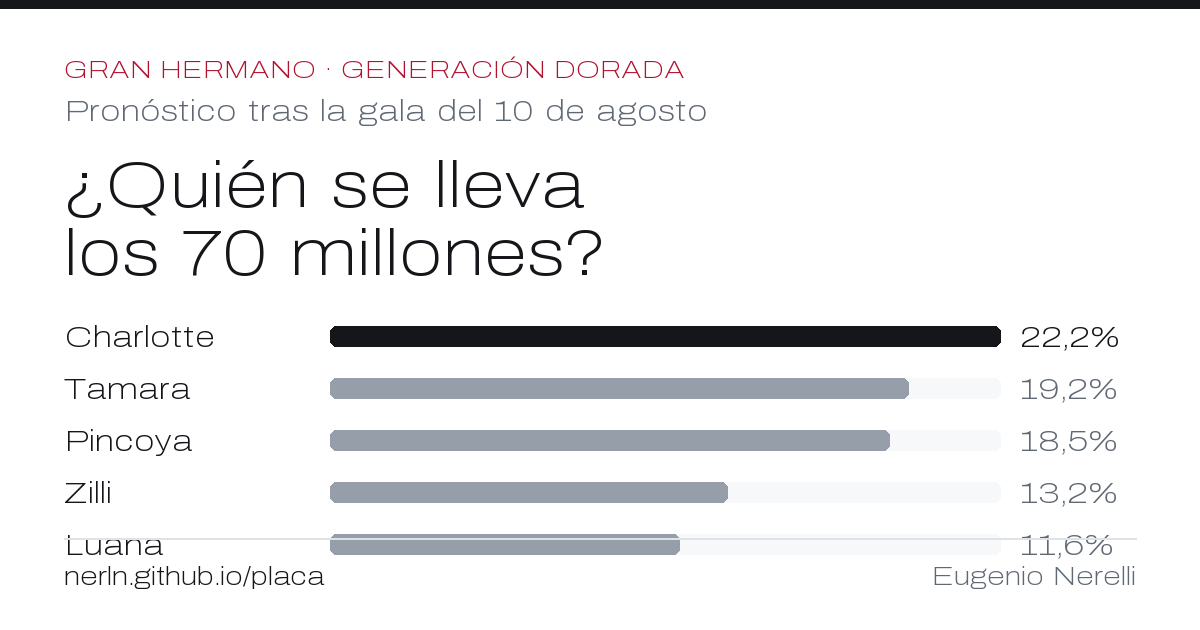
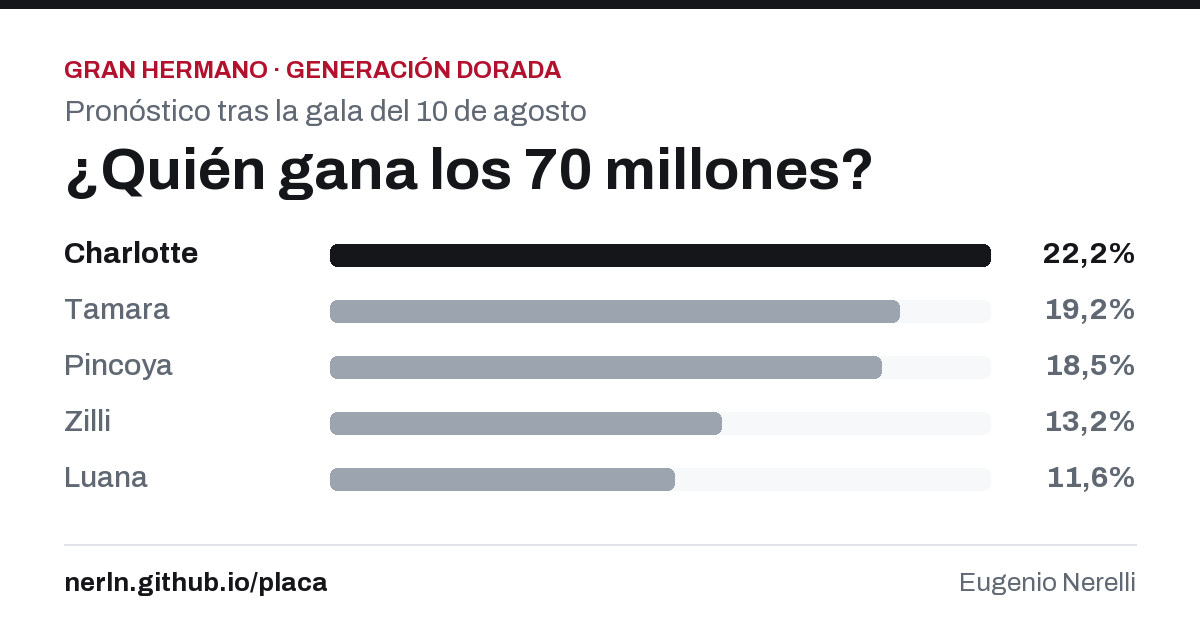
la tarjeta salía en Thin, y ahora no se puede publicar una vieja
Dos cosas de la previsualización del enlace.

Los ejes de Archivo van (peso, ancho) y yo los pasaba al revés, así que fijaba
peso=100 —Thin— y ancho=700, que se sale del eje y se recorta al máximo. Nada
falla al hacerlo: la tarjeta simplemente salía fina y ancha. Además la quinta
fila se metía debajo de la línea del pie; el título pasa a una sola línea y las
filas respiran.

Y el fallo silencioso que tenía esto: build.py no toca og.png, así que se podía
reconstruir la página y olvidarse de la tarjeta, y el enlace compartido seguiría
cantando el pronóstico de la semana pasada sin que nada se rompiera. tarjeta.py
ahora deja la firma de la corrida en un trozo de texto dentro del PNG y
verificar.py la compara con resultados.json. Se compara la firma y no los
píxeles, que dependen de la versión de la librería.

diff --git a/gui/tarjeta.py b/gui/tarjeta.py
@@ -16,7 +16,7 @@ from __future__ import annotations
 import json
 from pathlib import Path
 
-from PIL import Image, ImageDraw, ImageFont
+from PIL import Image, ImageDraw, ImageFont, PngImagePlugin
 
 ROOT = Path(__file__).resolve().parent.parent
 TIPO = ROOT / "gui" / "tipos" / "Archivo.ttf"
@@ -30,12 +30,21 @@ RECHAZO = (179, 18, 47)
 SUP2 = (247, 248, 250)
 
 
+def firma(p_gana, generado):
+    """Lo que identifica una corrida: la fecha y las cinco primeras al 0,01%."""
+    orden = sorted(p_gana, key=lambda n: -p_gana[n])[:5]
+    return generado + "|" + "|".join(f"{n}:{p_gana[n]:.4f}" for n in orden)
+
+
 def fuente(px, peso=400):
+    """Archivo es variable y sus ejes van en este orden: peso, ancho.
+
+    Al reves no falla: fija el peso en 100 -y sale todo en Thin- y el ancho en
+    700, que se sale del eje y se recorta al maximo. La tarjeta quedaba fina y
+    ancha sin que nada avisara.
+    """
     f = ImageFont.truetype(str(TIPO), px)
-    try:                                  # Archivo viene como variable
-        f.set_variation_by_axes([100, peso])
-    except Exception:
-        pass
+    f.set_variation_by_axes([peso, 100])
     return f
 
 
@@ -59,34 +68,48 @@ def main():
     d.text((64, 94), f"Pronóstico tras la gala del {int(dd)} de {MES[int(mm)-1]}",
            font=fuente(30, 400), fill=TINTA3)
 
-    d.text((64, 150), "¿Quién se lleva", font=fuente(64, 700), fill=TINTA)
-    d.text((64, 218), "los 70 millones?", font=fuente(64, 700), fill=TINTA)
+    d.text((64, 138), "¿Quién gana los 70 millones?", font=fuente(58, 700),
+           fill=TINTA)
 
-    # las cinco primeras, con su barra
-    y = 320
+    # las cinco primeras, con su barra. La escala es relativa a la primera y no
+    # al 100%: con nueve en juego nadie pasa del 25% y una barra sobre 100 seria
+    # una fila de muñones que no dejaria ver la unica diferencia que importa,
+    # que es la de arriba.
+    y, paso = 236, 56
+    x0, x1 = 330, 990
     top = base[orden[0]]
     for n in orden[:5]:
         p = base[n]
-        d.text((64, y), n, font=fuente(30, 700), fill=TINTA)
-        x0, x1 = 330, 1000
-        d.rounded_rectangle([x0, y + 6, x1, y + 26], 6, fill=SUP2)
+        primera = n == orden[0]
+        d.text((64, y), n, font=fuente(30, 700 if primera else 500),
+               fill=TINTA if primera else TINTA3)
+        d.rounded_rectangle([x0, y + 8, x1, y + 30], 7, fill=SUP2)
         ancho = int((x1 - x0) * p / top)
-        if ancho > 12:
-            d.rounded_rectangle([x0, y + 6, x0 + ancho, y + 26], 6,
-                                fill=TINTA if n == orden[0] else (150, 158, 170))
-        txt = f"{100*p:.1f}".replace(".", ",") + "%"
-        d.text((1020, y), txt, font=fuente(30, 700),
-               fill=TINTA if n == orden[0] else TINTA3)
-        y += 52
+        if ancho > 14:
+            d.rounded_rectangle([x0, y + 8, x0 + ancho, y + 30], 7,
+                                fill=TINTA if primera else (156, 164, 176))
+        d.text((W - 64, y), f"{100*p:.1f}".replace(".", ",") + "%",
+               font=fuente(30, 700), anchor="ra",
+               fill=TINTA if primera else TINTA3)
+        y += paso
 
-    d.line([64, H - 92, W - 64, H - 92], fill=LINEA, width=2)
-    d.text((64, H - 68), "nerln.github.io/placa", font=fuente(26, 700), fill=TINTA)
-    d.text((W - 64, H - 68), "Eugenio Nerelli", font=fuente(26, 400), fill=TINTA3,
+    d.line([64, H - 86, W - 64, H - 86], fill=LINEA, width=2)
+    d.text((64, H - 62), "nerln.github.io/placa", font=fuente(26, 700), fill=TINTA)
+    d.text((W - 64, H - 62), "Eugenio Nerelli", font=fuente(26, 400), fill=TINTA3,
            anchor="ra")
+
+    # La firma de la corrida viaja dentro del PNG, en un trozo de texto. Es para
+    # que gui/verificar.py pueda decir "esta tarjeta se dibujo con estos
+    # numeros" sin tener que redibujarla ni comparar pixeles, que dependen de la
+    # version de la libreria. Sirve contra el unico fallo silencioso que tiene
+    # esto: reconstruir la pagina y olvidarse de la tarjeta, y que el enlace
+    # compartido siga cantando el pronostico de la semana pasada.
+    meta = PngImagePlugin.PngInfo()
+    meta.add_text("corrida", firma(base, res["generado"]))
 
     salida = ROOT / "web" / "og.png"
     salida.parent.mkdir(exist_ok=True)
-    img.save(salida, "PNG", optimize=True)
+    img.save(salida, "PNG", optimize=True, pnginfo=meta)
     kb = salida.stat().st_size / 1024
     print(f"escrito web/og.png ({kb:.0f} KB) · {orden[0]} {100*base[orden[0]]:.1f}%")
 

diff --git a/gui/verificar.py b/gui/verificar.py
@@ -114,9 +114,38 @@ def identidad_telefe():
     return err
 
 
+def tarjeta_al_dia():
+    """La previsualizacion del enlace tiene que ser de esta corrida.
+
+    build.py no la toca, asi que se puede reconstruir la pagina y olvidarse de
+    tarjeta.py: la pagina diria una cosa y el enlace compartido otra, sin que
+    nada se rompa. Por eso tarjeta.py deja la firma de la corrida dentro del
+    PNG y aca se lee. Se compara la firma, no los pixeles: el rasterizado
+    depende de la version de la libreria y compararlo daria falsos negativos.
+    """
+    png = WEB / "og.png"
+    if not png.exists():
+        return fallo("falta web/og.png: correr gui/tarjeta.py")
+    from PIL import Image                                       # noqa: PLC0415
+    sys.path.insert(0, str(ROOT / "gui"))
+    from tarjeta import firma                                   # noqa: PLC0415
+
+    res = json.loads((ROOT / "data" / "resultados.json").read_text())
+    esperada = firma(res["escenarios"]["base"]["p_gana"], res["generado"])
+    tiene = Image.open(png).text.get("corrida", "")
+    if tiene != esperada:
+        return fallo("web/og.png se dibujo con otra corrida.\n"
+                     f"    tiene:   {tiene or '(sin firma)'}\n"
+                     f"    espera:  {esperada}\n"
+                     "    Correr gui/tarjeta.py.")
+    print("  ok · web/og.png es de esta corrida")
+    return 0
+
+
 def main():
     print("verificando lo que se va a publicar")
-    err = (reconstruible() + probabilidades() + ramas_cierran() + identidad_telefe())
+    err = (reconstruible() + probabilidades() + ramas_cierran() +
+           identidad_telefe() + tarjeta_al_dia())
     if err:
         print(f"\n{err} comprobacion(es) fallaron: no se publica")
         sys.exit(1)
